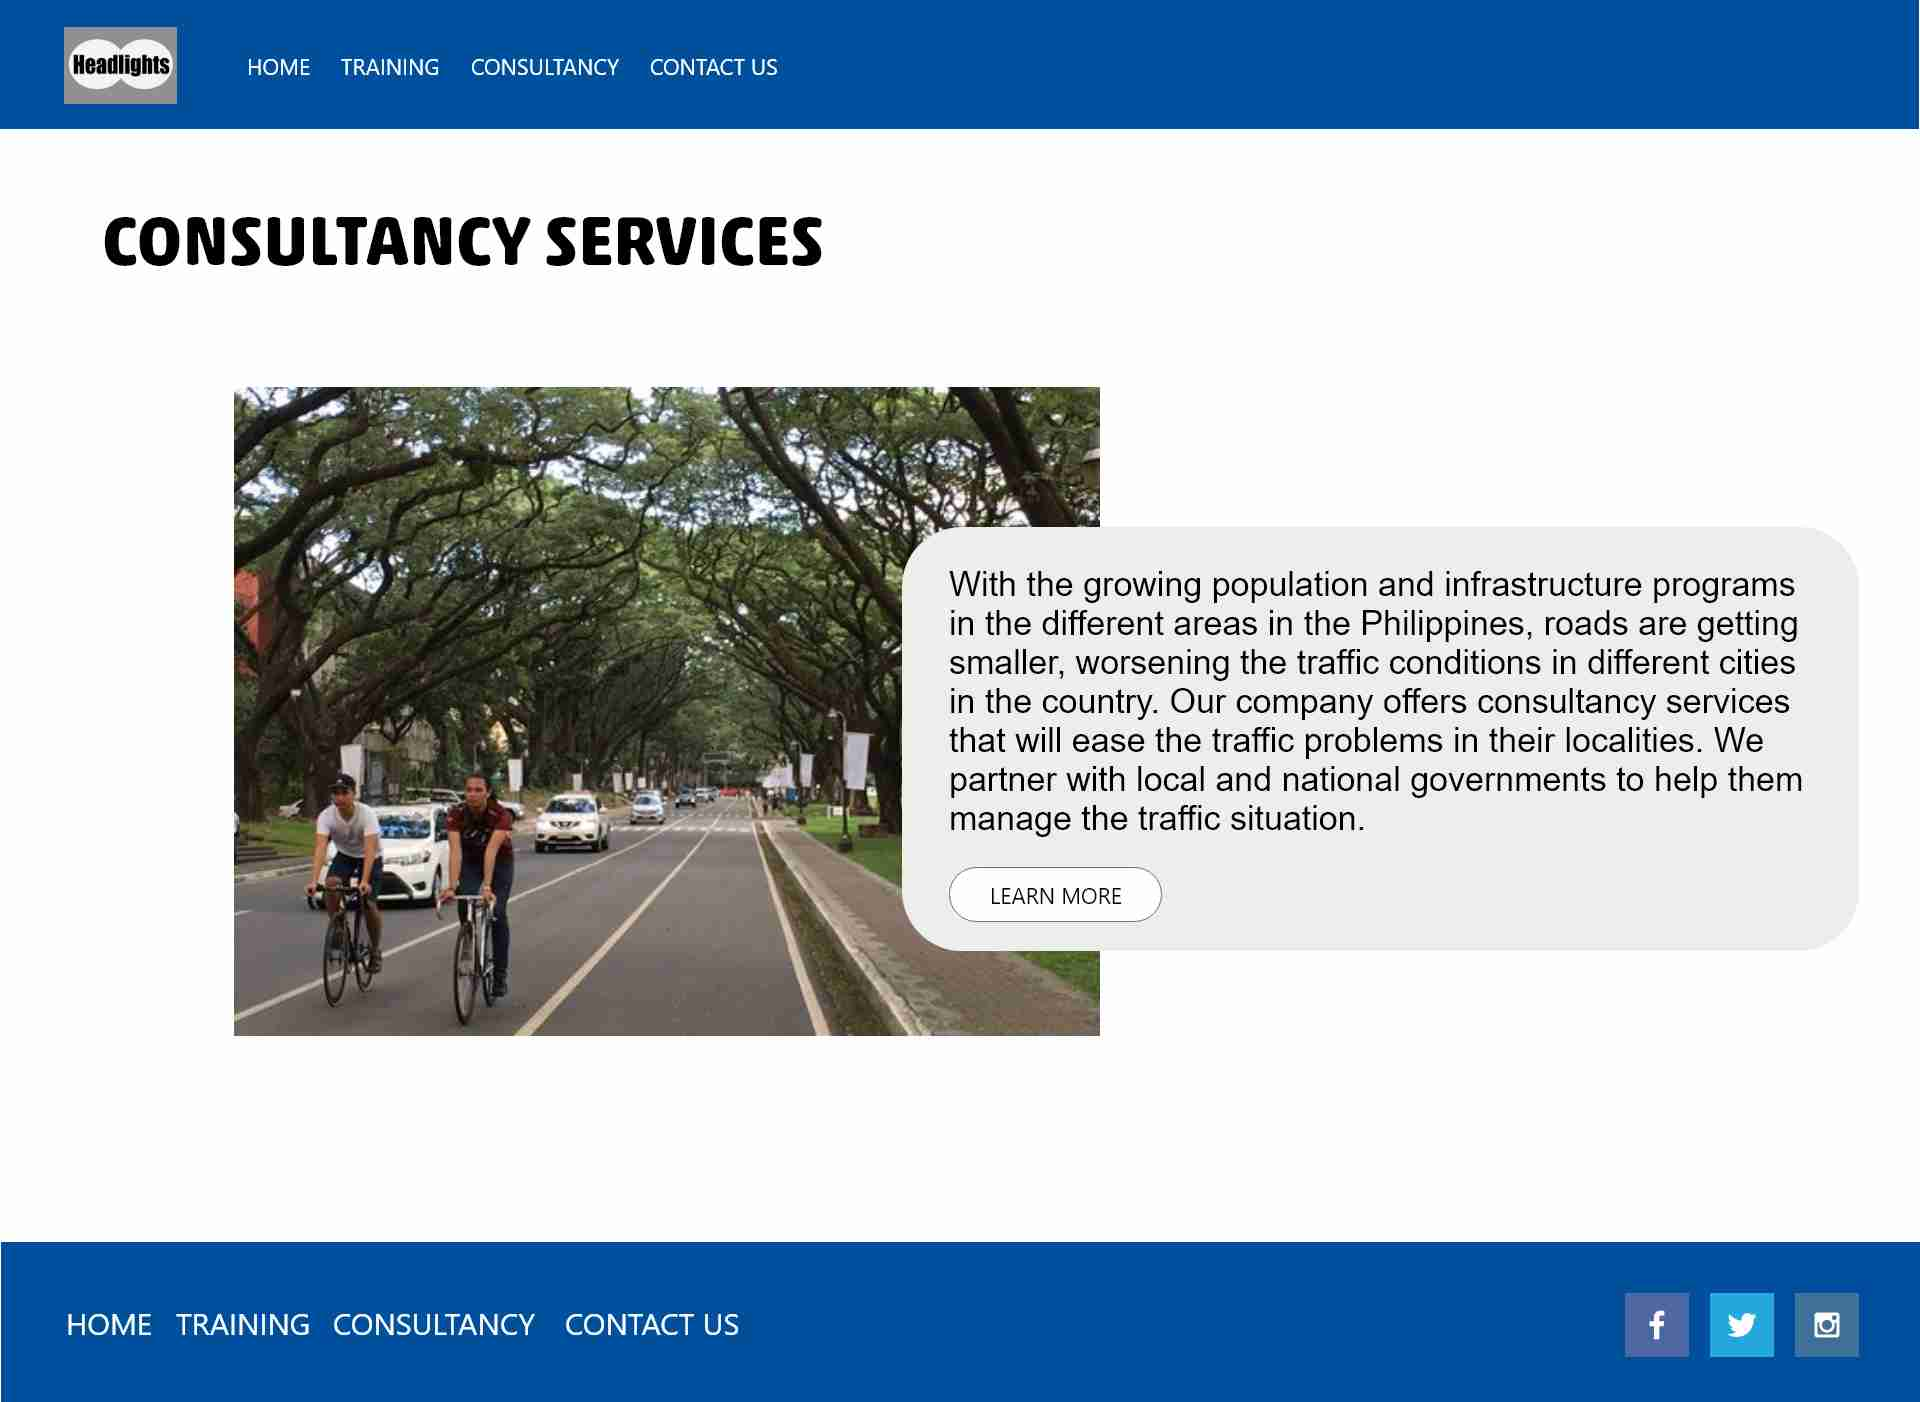
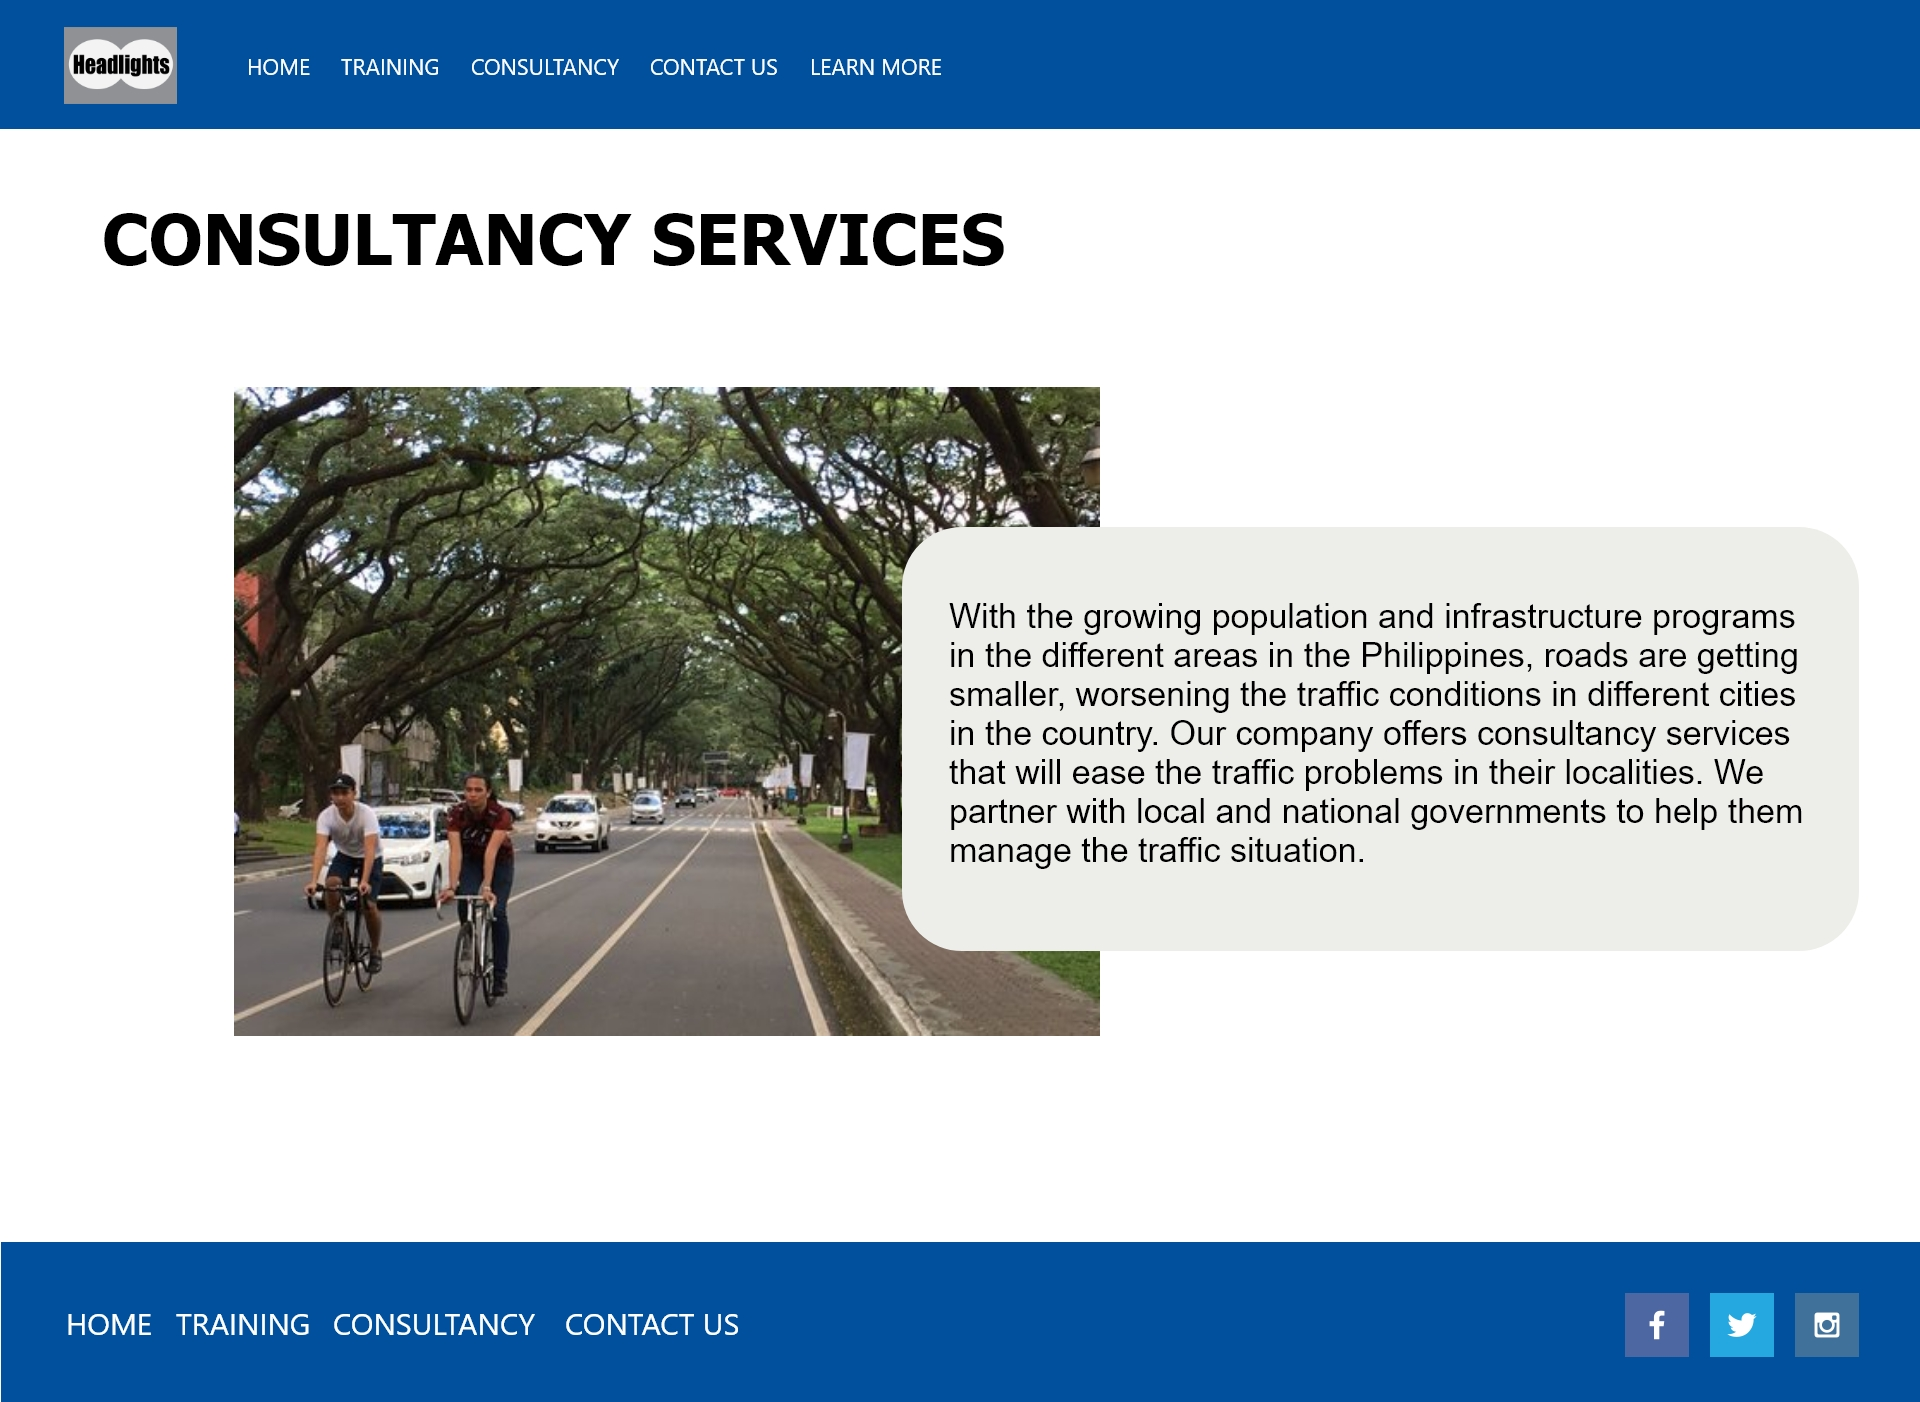
edited final site plan

diff --git a/finalproject/styles/styles.css b/finalproject/styles/styles.css
@@ -13,7 +13,7 @@ nav a {
     color: #EDEDE9;
     text-decoration: none;
     padding:20px;
-    font-family: Tahoma;
+    font-family: Segoe UI;
     font-size: 1em;
 }
 
@@ -21,11 +21,10 @@ nav {
     display: flex;
 }
 
-
 h2 {
-    font-family: Arial;
+    font-family: Tahoma;
     padding-top: 10%;
-    font-weight: 800;
+    font-weight: 1000%;
     padding-left: 30px;
 }
 
@@ -67,7 +66,7 @@ p {
     text-align: right;
     color: #edede9;
     padding: 10px;
-    font-family: Arial;
+    font-family: Tahoma;
     font-size: 3em;   
 }
 
@@ -92,7 +91,7 @@ main{
 }
 
 #training-title h1 {
-    font-family: Arial;
+    font-family: Tahoma;
     padding-left: 40px;
 }
 
@@ -110,14 +109,9 @@ main{
 
 #adult-msg p {
     grid-column: 2/3;
-    font-family: Tahoma;
+    font-family: Arial;
     font-size: 20px;
     padding-right: 40px;
-}
-
-.learn1 {
-    font-family: trebuchet MS;
-    grid-column: 2/3;
 }
 
 #kids-msg {
@@ -163,7 +157,7 @@ main{
 }
 
 #consultancy-title h1{
-    font-family: trebuchet MS;
+    font-family: tahoma;
     padding-left: 40px; 
 }
 

diff --git a/finalproject/training.html b/finalproject/training.html
@@ -47,10 +47,10 @@
     </main>   
    <footer>
         <nav>
-            <a href="index.html">Home</a>
-            <a href="training.html">Training</a>
-            <a href="consultancy.html">Consultancy</a>
-            <a href="site-plan.html">Site Plan</a>
+            <a href="index.html">HOME</a>
+            <a href="training.html">TRAINING</a>
+            <a href="consultancy.html">CONSULTANCY</a>
+            <a href="site-plan.html">SITE PLAN</a>
         </nav>
         <div class="social">
             <a href="https://facebook.com" target="_blank">

diff --git a/finalproject/consultancy.html b/finalproject/consultancy.html
@@ -41,10 +41,10 @@
 
     <footer>
         <nav>
-            <a href="index.html">Home</a>
-            <a href="training.html">Training</a>
-            <a href="consultancy.html">Consultancy</a>
-            <a href="site-plan.html">Site Plan</a>
+            <a href="index.html">HOME</a>
+            <a href="training.html">TRAINING</a>
+            <a href="consultancy.html">CONSULTANCY</a>
+            <a href="site-plan.html">SITE PLAN</a>
         </nav>
         <div class="social">
             <a href="https://facebook.com" target="_blank">

diff --git a/finalproject/index.html b/finalproject/index.html
@@ -50,10 +50,10 @@
     
 <footer>
     <nav>
-        <a href="index.html">Home</a>
-        <a href="training.html">Training</a>
-        <a href="consultancy.html">Consultancy</a>
-        <a href="site-plan.html">Site Plan</a>
+        <a href="index.html">HOME</a>
+        <a href="training.html">TRAINING</a>
+        <a href="consultancy.html">CONSULTANCY</a>
+        <a href="site-plan.html">SITE PLAN</a>
     </nav>
     <div class="social">
         <a href="https://facebook.com" target="_blank">
